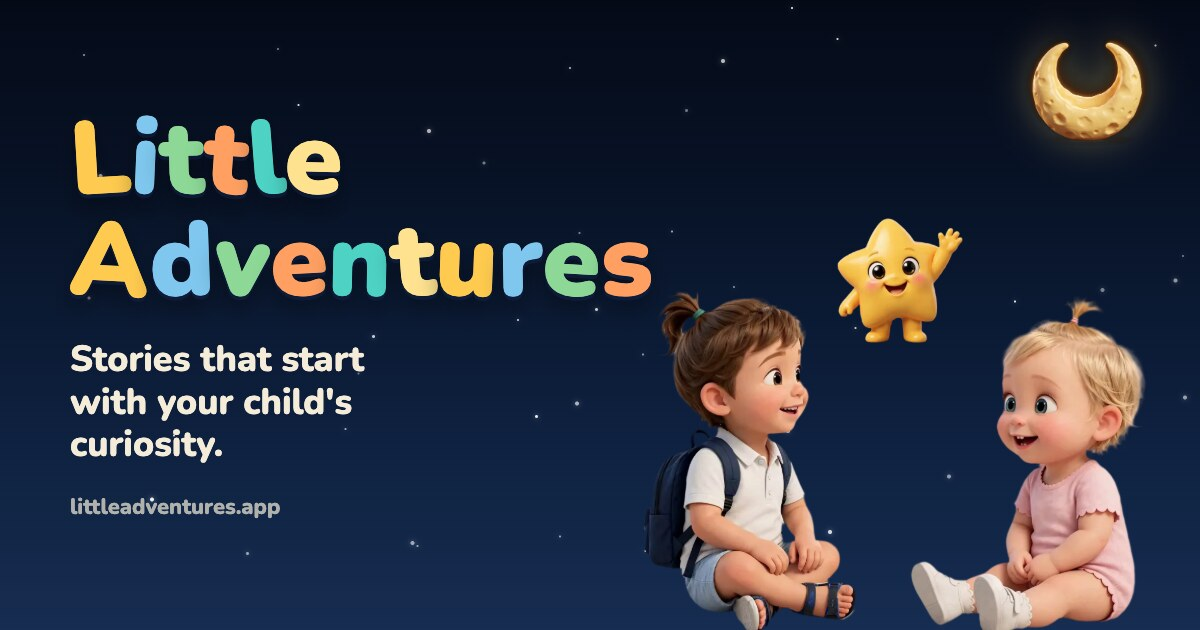
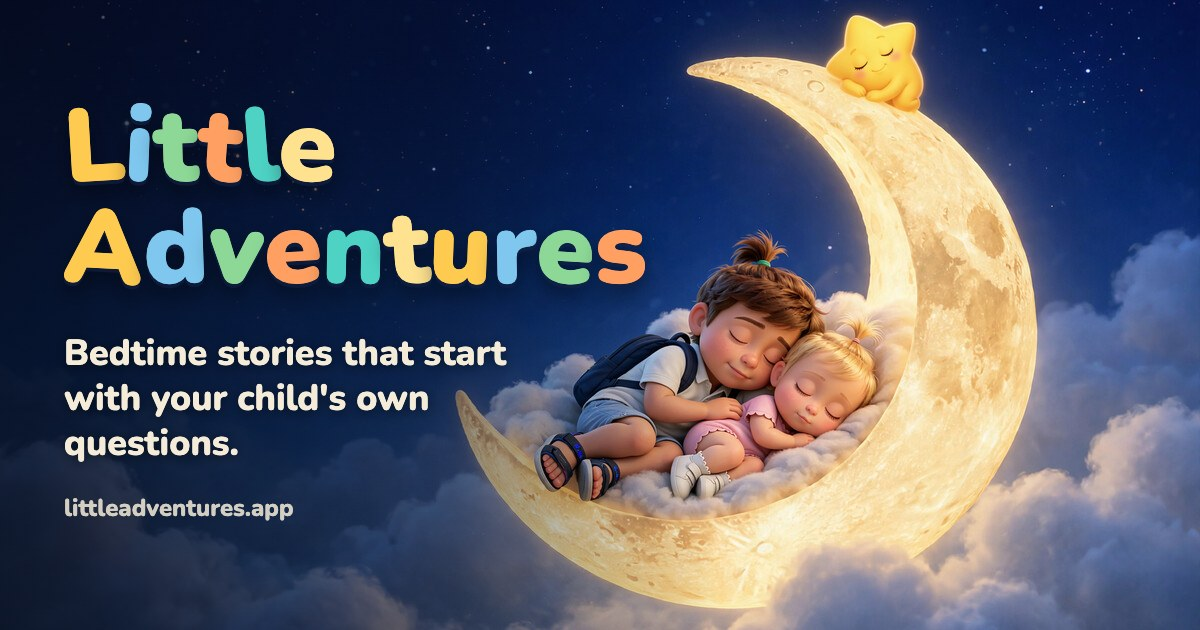
feat(web): share image and title from the new story
The goodnight moon with the wordmark and the new line, and a title and
description that match the video landing.

diff --git a/apps/web/src/app/(marketing)/layout.tsx b/apps/web/src/app/(marketing)/layout.tsx
@@ -1,8 +1,8 @@
 import type { Metadata, Viewport } from "next";
 import "./landing.css";
 
-const TAGLINE = "Stories that start with your child's curiosity.";
-const DESCRIPTION = `${TAGLINE} Your child asks a question out loud, a small adventure grows from it with your child as the hero, and it always ends in goodnight.`;
+const TAGLINE = "Bedtime stories that start with your child's own questions.";
+const DESCRIPTION = `${TAGLINE} Your child asks out loud, a short illustrated story grows from it starring your child, with real answers on the way and a calm goodnight at the end.`;
 
 // Vercel sets this to the production domain (the custom one once it is connected).
 const SITE_URL = process.env.VERCEL_PROJECT_PRODUCTION_URL
@@ -20,15 +20,18 @@ export const metadata: Metadata = {
 		description: DESCRIPTION,
 		locale: "en_US",
 		siteName: "Little Adventures",
-		title: "Little Adventures: stories that start with your child's curiosity",
+		title:
+			"Little Adventures: bedtime stories that start with your child's own questions",
 		type: "website",
 		url: "/",
 	},
-	title: "Little Adventures: stories that start with your child's curiosity",
+	title:
+		"Little Adventures: bedtime stories that start with your child's own questions",
 	twitter: {
 		card: "summary_large_image",
 		description: DESCRIPTION,
-		title: "Little Adventures: stories that start with your child's curiosity",
+		title:
+			"Little Adventures: bedtime stories that start with your child's own questions",
 	},
 };
 
